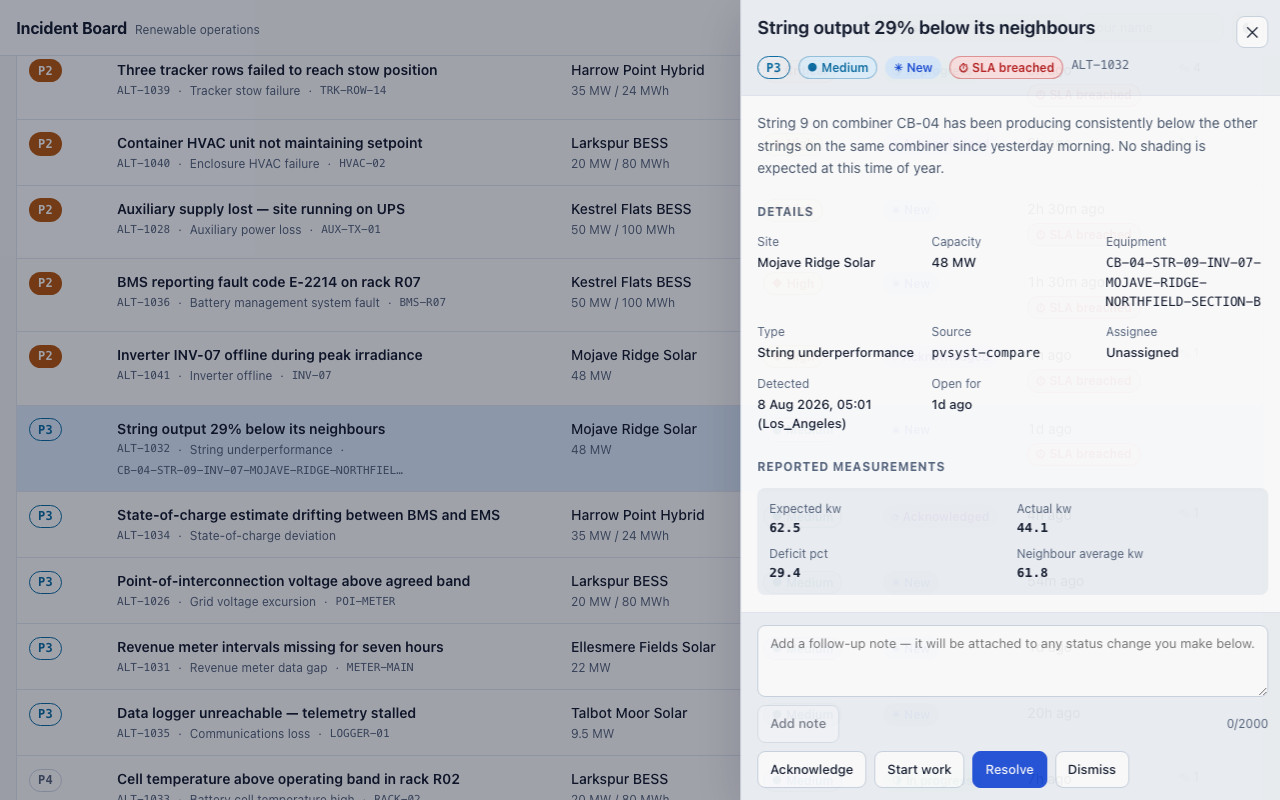
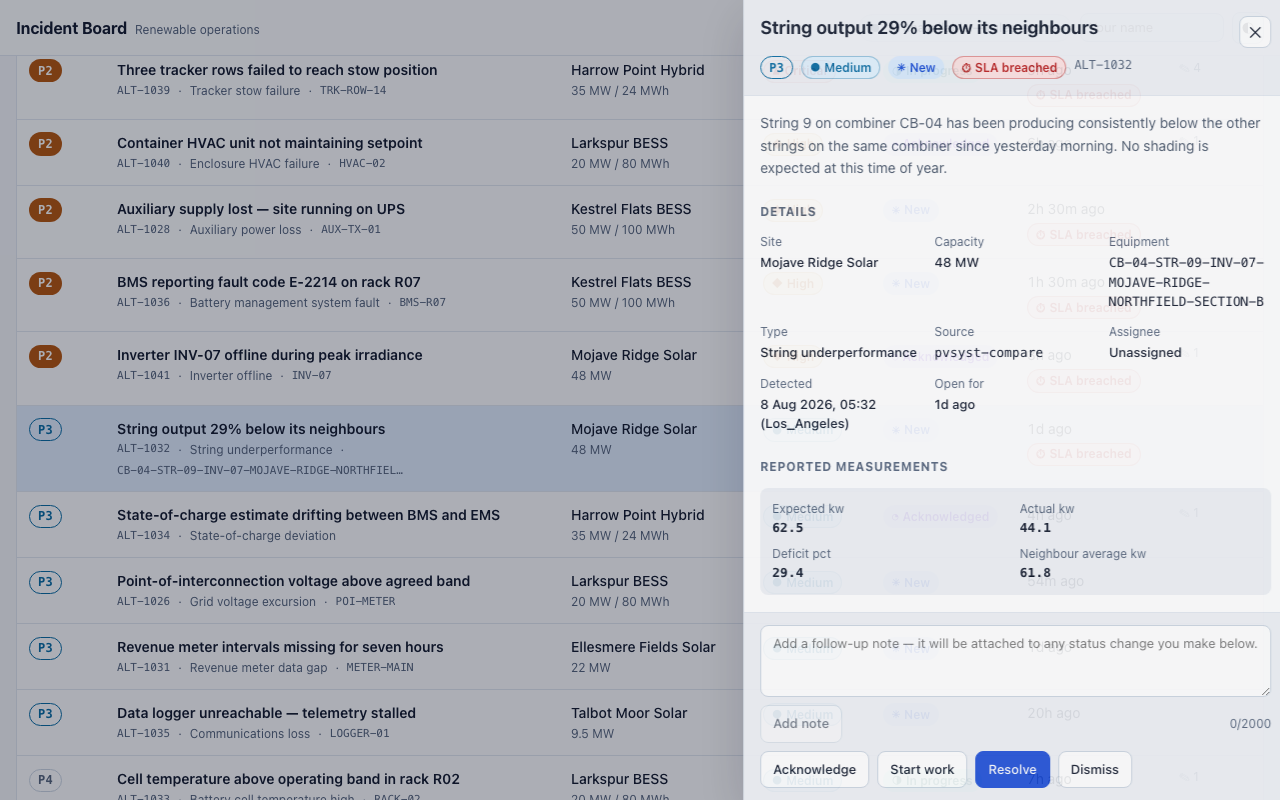
Fix KPI drilldowns and CI layout audit

diff --git a/apps/web/src/App.tsx b/apps/web/src/App.tsx
@@ -1,5 +1,12 @@
 import { useCallback, useMemo } from 'react';
-import type { AlertListResponse, HealthResponse, SitesResponse, StatsResponse } from '@incident-board/shared';
+import {
+  OPEN_STATUSES,
+  type AlertListResponse,
+  type AlertStatus,
+  type HealthResponse,
+  type SitesResponse,
+  type StatsResponse,
+} from '@incident-board/shared';
 import { api } from './api/client';
 import { useResource } from './api/useResource';
 import { AlertDrawer } from './components/AlertDrawer';
@@ -16,6 +23,19 @@ import styles from './App.module.css';
 /** Live enough for an operations board, quiet enough not to fight someone reading it. */
 const POLL_MS = 30_000;
 const ATTENTION_PREVIEW = 5;
+const OPEN_STATUS_FILTER = [...OPEN_STATUSES] as AlertStatus[];
+
+function sameValues<T extends string>(left: readonly T[], right: readonly T[]): boolean {
+  return left.length === right.length && left.every((value) => right.includes(value));
+}
+
+function hasSecondaryFilters(filters: BoardFilters): boolean {
+  return (
+    filters.priority.length > 0 ||
+    filters.siteId.length > 0 ||
+    filters.q.trim().length > 0
+  );
+}
 
 export function App(): React.JSX.Element {
   const [urlState, setUrlState] = useUrlState();
@@ -83,8 +103,18 @@ export function App(): React.JSX.Element {
     attention.refresh();
   }, [alerts, stats, attention]);
 
+  const attentionActive =
+    filters.needsAttention &&
+    filters.status.length === 0 &&
+    filters.severity.length === 0 &&
+    !hasSecondaryFilters(filters);
+
   const criticalActive =
-    filters.severity.length === 1 && filters.severity[0] === 'critical';
+    !filters.needsAttention &&
+    filters.severity.length === 1 &&
+    filters.severity[0] === 'critical' &&
+    sameValues(filters.status, OPEN_STATUS_FILTER) &&
+    !hasSecondaryFilters(filters);
 
   const activeFilterCount = useMemo(() => countActiveFilters(filters), [filters]);
 
@@ -120,18 +150,21 @@ export function App(): React.JSX.Element {
 
         <KpiStrip
           stats={stats.data}
-          attentionActive={filters.needsAttention}
+          attentionActive={attentionActive}
           criticalActive={criticalActive}
           onToggleAttention={() => {
-            setFilters({ ...filters, needsAttention: !filters.needsAttention, page: 1 });
+            setFilters(attentionActive ? DEFAULT_FILTERS : { ...DEFAULT_FILTERS, needsAttention: true });
           }}
           onToggleCritical={() => {
-            setFilters({
-              ...filters,
-              severity: criticalActive ? [] : ['critical'],
-              status: criticalActive ? [] : ['new', 'acknowledged', 'in_progress'],
-              page: 1,
-            });
+            setFilters(
+              criticalActive
+                ? DEFAULT_FILTERS
+                : {
+                    ...DEFAULT_FILTERS,
+                    severity: ['critical'],
+                    status: OPEN_STATUS_FILTER,
+                  },
+            );
           }}
         />
 

diff --git a/e2e/tests/board.spec.ts b/e2e/tests/board.spec.ts
@@ -82,6 +82,24 @@ test('filters, and keeps the filter in the URL so a board can be shared', async 
   );
 });
 
+test('KPI drilldowns do not accidentally intersect with stale filters', async ({ page }) => {
+  await page.getByRole('button', { name: /^Needs attention/ }).first().click();
+  await expect(page).toHaveURL(/needsAttention=true/);
+
+  await page.getByRole('button', { name: /^Open critical/ }).click();
+
+  await expect(page).toHaveURL(/severity=critical/);
+  await expect(page).toHaveURL(/status=new%2Cacknowledged%2Cin_progress/);
+  await expect(page).not.toHaveURL(/needsAttention=true/);
+  await expect(page.getByRole('button', { name: /^Needs attention only/ })).toHaveAttribute(
+    'aria-pressed',
+    'false',
+  );
+  // The third open critical is already in progress, so it only appears when the KPI drilldown
+  // clears the needs-attention filter.
+  await expect(page.getByRole('button', { name: /Three tracker rows failed/ }).first()).toBeVisible();
+});
+
 test('says so plainly when a filter combination matches nothing', async ({ page }) => {
   await page.getByRole('searchbox', { name: 'Search alerts' }).fill('zzz-no-such-alert');
 

diff --git a/apps/web/src/components/FilterBar.tsx b/apps/web/src/components/FilterBar.tsx
@@ -217,15 +217,15 @@ interface ChipToggleProps {
 }
 
 function ChipToggle({ label, count, pressed, onClick }: ChipToggleProps): React.JSX.Element {
-  // A chip that would return nothing is disabled rather than removed, so the layout does not
-  // reflow under the pointer as counts change on a refresh.
-  const empty = count === 0 && !pressed;
+  const matchText =
+    count === undefined ? undefined : `${count} alert${count === 1 ? '' : 's'} match current filters`;
   return (
     <button
       type="button"
       className={styles.filterChip}
       aria-pressed={pressed}
-      disabled={empty}
+      aria-label={matchText === undefined ? label : `${label}, ${matchText}`}
+      title={matchText}
       onClick={onClick}
     >
       <span className="truncate">{label}</span>

diff --git a/e2e/tests/helpers/layout-audit.ts b/e2e/tests/helpers/layout-audit.ts
@@ -189,6 +189,9 @@ const AUDIT_SCRIPT = (rootSelector: string): LayoutViolation[] => {
 };
 
 export async function auditLayout(page: Page, rootSelector = 'body'): Promise<LayoutViolation[]> {
+  if (rootSelector !== 'body') {
+    await page.locator(rootSelector).first().waitFor({ state: 'visible' });
+  }
   return page.evaluate(AUDIT_SCRIPT, rootSelector);
 }
 

diff --git a/apps/web/src/components/FilterBar.module.css b/apps/web/src/components/FilterBar.module.css
@@ -121,11 +121,6 @@
   color: var(--accent-fg);
 }
 
-.filterChip:disabled {
-  opacity: 0.45;
-  cursor: not-allowed;
-}
-
 .count {
   font-variant-numeric: tabular-nums;
 }

diff --git a/AI_USAGE.md b/AI_USAGE.md
@@ -130,3 +130,18 @@ Known local verification gap:
 
 - Docker image builds and `docker compose up` were not run because the Docker daemon was not running on this machine.
 - Live Ollama generation was not run because Ollama was not installed/running. The default deterministic fallback and eval path were verified.
+
+## Codex Post-Deployment Debug Pass
+
+### User Prompt 3
+
+The user attached a screenshot of the board filtered to needs-attention/open-critical-looking state and asked why three zero-count filter buttons were unclickable, why the board showed two alerts while the KPI said three open critical alerts, and requested an adversarial review of correctness, security, and API performance. The user then added: "after that push to the github" and "btw, CI tests fail, fix the code".
+
+### Codex Material Actions And Outputs
+
+- Inspected frontend KPI, filter, URL-state, and E2E files with `rg`, `nl`, and GitHub Actions logs through `gh`.
+- Traced the count mismatch to `apps/web/src/App.tsx`: KPI tile clicks preserved existing filters, so clicking "Open critical" while "Needs attention" was active produced "open critical AND needs attention". The KPI was global and counted three open critical alerts; the list was narrowed to two because the third critical alert, `ALT-1039`, is already `in_progress` and therefore not in the needs-attention queue.
+- Traced unclickable zero-count chips to `apps/web/src/components/FilterBar.tsx`: chips with count `0` were rendered with the native `disabled` attribute. Codex changed them to remain clickable and added count-aware labels/tooltips.
+- Inspected the latest GitHub Actions run `31318016593`. Lint, typecheck, unit/integration, build, and eval passed; E2E failed in `tests/layout.spec.ts` because the layout audit queried its dialog root before the selector was reliably available in CI.
+- Patched the E2E audit helper to wait for non-body roots before evaluating layout.
+- Added an E2E regression test that proves KPI drilldowns clear stale filters and show the in-progress critical alert.
